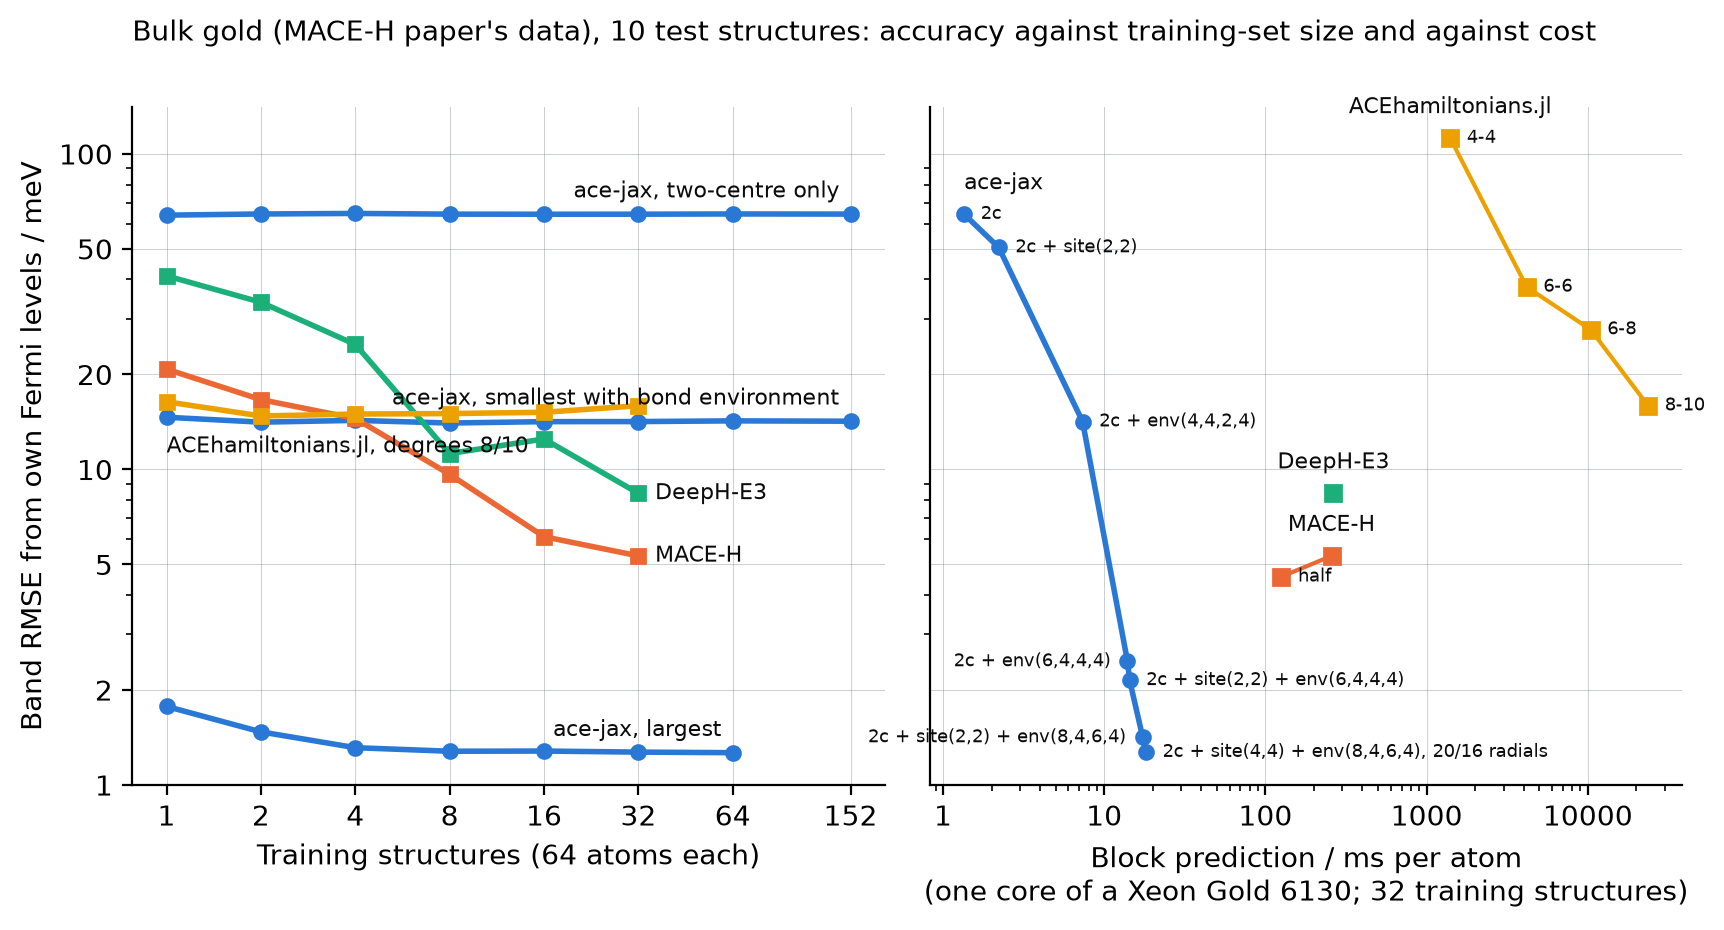
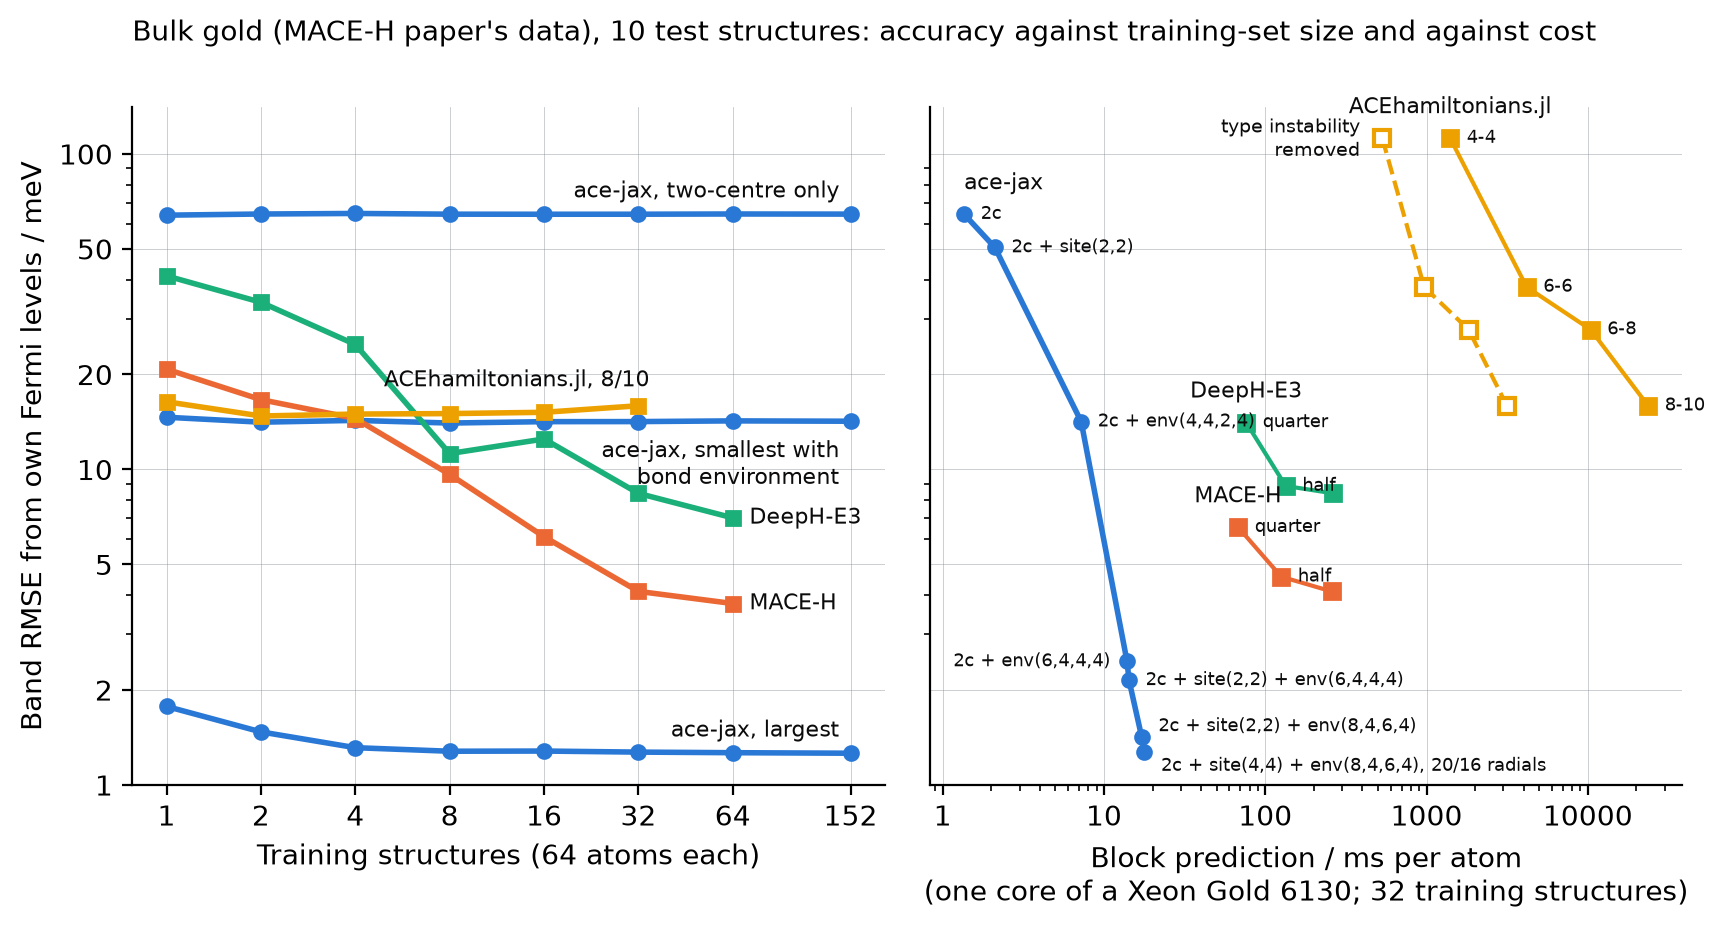
bench(ham): gold Pareto figures with the full 0.7.1 grid, 64-structure networks and both ACEhamiltonians.jl cost ladders

diff --git a/bench/ham/gold_pareto.py b/bench/ham/gold_pareto.py
@@ -4,7 +4,7 @@ data, for the ace-jax grid (`gold_grid.sh`), MACE-H and DeepH-E3 (`maceh_train.p
 ten test structures:
     python bench/ham/gold_pareto.py <ace grid.jsonl> <other codes.jsonl> <timings.json> <figure.png> [metric=aligned_rmse]
 <timings.json>: {"machine": text, "ace": {model tag: ms per atom}, "MACE-H": ms or {network size: ms},
-"DeepH-E3": the same}, of one machine (`model_time.py`, `maceh_time.py`).  Network sizes: "full"
+"DeepH-E3": the same, "<code>, type-stable": {size: ms} (optional: a second cost for the same fits, drawn dashed)}, of one machine (`model_time.py`, `maceh_time.py`).  Network sizes: "full"
 (the authors' gold network; runs `gold_<code>_n<N>`) and the smaller ones of
 `sulis/train_gold_size.sh`, or ACEhamiltonians.jl's basis sizes (`aceh_gold.jl`; runs
 `gold_<code>_n<N>_<size>`), drawn where a scored run exists.  ace-jax's points are named by
@@ -46,7 +46,8 @@ show = {order[0]: "two-centre only", [t for t in order if "env_5" in t][0]: "sma
 for t, label in show.items():                           # ace-jax: one hue, three model sizes named on the lines
     n = sorted(ace[t])
     a.plot(n, [ace[t][i] for i in n], color=ACE, lw=2, marker="o", ms=5)
-    a.annotate(f"ace-jax, {label}", (n[-1], ace[t][n[-1]]), xytext=(-4, 6), textcoords="offset points", ha="right", fontsize=8, color=INK)
+    below = "smallest" in label                           # ACEhamiltonians.jl's line and label lie just above this one
+    a.annotate("ace-jax, smallest with\nbond environment" if below else f"ace-jax, {label}", (n[-1], ace[t][n[-1]]), xytext=(-4, -6 if below else 6), textcoords="offset points", ha="right", va="top" if below else "baseline", fontsize=8, color=INK)
 for code, col in (("MACE-H", MACEH), ("DeepH-E3", DEEPH)):
     n = sorted(oth.get(code, {}))
     a.plot(n, [oth[code][i] for i in n], color=col, lw=2, marker="s", ms=5)
@@ -58,7 +59,7 @@ for (sz, m), v in small.get("ACEhamiltonians", {}).items():
 if ser:
     sz = max(ser, key=lambda k: (len(ser[k]), k)); n = sorted(ser[sz])
     a.plot(n, [ser[sz][i] for i in n], color=ACEH, lw=2, marker="s", ms=5)
-    a.annotate(f"ACEhamiltonians.jl, degrees {sz.replace('-', '/')}", (n[0], min(ser[sz].values())), xytext=(0, -7), textcoords="offset points", va="top", fontsize=8, color=INK)
+    a.annotate(f"ACEhamiltonians.jl, {sz.replace('-', '/')}", (n[-1], ser[sz][n[-1]]), xytext=(4, 7), textcoords="offset points", ha="right", fontsize=8, color=INK)
 a.set_xscale("log", base=2); a.set_yscale("log"); a.set_xlabel("Training structures (64 atoms each)"); a.set_ylabel(NAME.get(metric, metric))
 a.set_xticks([1, 2, 4, 8, 16, 32, 64, 152]); a.set_xticklabels(["1", "2", "4", "8", "16", "32", "64", "152"])
 nb = 32                                                 # cost panel: every code at 32 training structures
@@ -66,8 +67,8 @@ na = nb if all(nb in v for v in ace.values()) else max(next(iter(ace.values())))
 xs = [T["ace"][t] for t in order]
 b.plot(xs, [ace[t][na] for t in order], color=ACE, lw=2, marker="o", ms=5)
 for i, t in enumerate(order):                           # each point's architecture, sides alternating where points crowd
-    left = i >= 3 and i % 2 == 1
-    b.annotate(arch[t], (T["ace"][t], ace[t][na]), xytext=(-6 if left else 6, 0), textcoords="offset points", ha="right" if left else "left",
+    left, dy = i == 3, {len(order) - 2: 4, len(order) - 1: -5}.get(i, 0) if len(order) > 5 else 0
+    b.annotate(arch[t], (T["ace"][t], ace[t][na]), xytext=(-6 if left else 6, dy), textcoords="offset points", ha="right" if left else "left",
                va="center", fontsize=6.5, color=INK)
 b.annotate("ace-jax", (xs[0], ace[order[0]][na]), xytext=(0, 9), textcoords="offset points", fontsize=8, color=INK)
 for code, col in OTHERS:                                # the other codes: every network or basis size scored at nb, joined in cost order
@@ -81,6 +82,11 @@ for code, col in OTHERS:                                # the other codes: every
                 b.annotate(sz, (x, y), xytext=(6, 0), textcoords="offset points", va="center", fontsize=6.5, color=INK)
         top = max(pts, key=lambda q: q[1])
         b.annotate(code + (".jl" if code == "ACEhamiltonians" else ""), top[:2], xytext=(0, 9), textcoords="offset points", ha="center", fontsize=8, color=INK)
+    alt = T.get(code + ", type-stable", {})              # the same fits at the cost measured with a type instability in the code's evaluation removed
+    pts = sorted((alt[sz], v, sz) for (sz, m), v in small.get(code, {}).items() if m == nb and sz in alt)
+    if pts:
+        b.plot([q[0] for q in pts], [q[1] for q in pts], color=col, marker="s", ms=6, mfc="white", mew=1.5, ls="--", lw=1.5)
+        b.annotate("type instability\nremoved", max(pts, key=lambda q: q[1])[:2], xytext=(-8, 0), textcoords="offset points", ha="right", va="center", fontsize=7, color=INK, linespacing=1.1)
 b.set_xscale("log"); b.set_xlabel(f"Block prediction / ms per atom\n({T.get('machine', 'one CPU core')}; {nb} training structures)")
 from matplotlib.ticker import FuncFormatter, NullFormatter
 a.set_yticks([1, 2, 5, 10, 20, 50, 100]); a.yaxis.set_major_formatter(FuncFormatter(lambda v, _: f"{v:g}")); a.yaxis.set_minor_formatter(NullFormatter())

diff --git a/docs/dev/ham-results.md b/docs/dev/ham-results.md
@@ -896,3 +896,24 @@ FHI-aims 261002 on 16 MPI ranks (its own time accounting) against the model rout
 - The model's cost is its eigensolver: 88-96 % of the total. JAX's `eigh` on a CPU takes 0.28 s per k-point at 896 functions where FHI-aims (ELPA, k-points over ranks) takes 0.48 s for all 8, so the speed-up to bands is a lower bound that a LAPACK/ELPA solve would raise (Al: 481 / (0.29 + 0.48) = 620, an estimate, not measured).
 - Large cells: both routes become the eigensolver, and the ratio tends to the number of SCF cycles (30-61 here) times (functions of the DFT / functions of the model)^3 where the model is valence-only (NbFeSb: 6.4).
 - Not like for like: the model returns eigenvalues, the DFT also eigenvectors, density and total energy; GPU prediction is not used.
+
+## Gold: the figure with 0.7.1, 64-structure networks and ACEhamiltonians.jl (2026-11-20)
+
+`figures/ham-gold-pareto.png` redrawn from the grid refitted with 0.7.1 (`gold_grid3`, all 56 points), the networks retrained to their learning-rate floor on Blythe L40s, and ACEhamiltonians.jl @ 9ff1572 (`aceh_gold.jl`, its own assembly and LSQR). Band RMSE from own Fermi levels, ten test structures; block prediction on one core of a Xeon Gold 6130.
+
+| Model | Training structures | ms per atom | Band RMSE / meV |
+|---|---|---|---|
+| ace-jax 2c + site(2,2) + env(6,4,4,4) (default) | 32 | 14.3 | 2.15 |
+| ace-jax 2c + site(4,4) + env(8,4,6,4), 20/16 radials | 32, 64, 152 | 17.8 | 1.27, 1.27, 1.26 |
+| MACE-H, full network | 32, 64 | 258 | 4.11, 3.76 |
+| MACE-H, half, quarter | 32 | 126, 68 | 4.57, 6.56 |
+| DeepH-E3, full network | 32, 64 | 264 | 8.40, 7.02 |
+| DeepH-E3, half, quarter | 32 | 134, 76 | 8.87, 14.09 |
+| ACEhamiltonians.jl, on-site/off-site degrees 4/4, 6/6, 6/8, 8/10 | 32 | 1,400, 4,176, 10,409, 23,655 | 112.2, 37.9, 27.8, 15.9 |
+| the same with the type instability removed | 32 | 532, 967, 1,822, 3,152 | the same (8/10: 15.96) |
+| ACEhamiltonians.jl 8/10 | 1, 2, 4, 8, 16 | | 16.4, 14.8, 15.0, 15.0, 15.2 |
+
+- ace-jax's times are those of the 0.7.0 models to 2 % (the midpoint fix costs nothing); the accuracies are those of the midpoint section.
+- The networks gain little from 32 to 64 structures (MACE-H 4.11 to 3.76 meV); the 5.32 meV of the earlier table was a run stopped by its time limit.
+- **ACEhamiltonians.jl is basis-limited at these degrees**: 8/10 does not improve from 1 to 32 structures. The paper's degrees (10/12 to 14/14) are running.
+- **A type instability in ACE.jl 0.12.22** (`evaluate!(AA, basis::PIBasis, config)`: the one-particle values are inferred as an abstract `Vector`, so each of the products dispatches dynamically) is 2.6 to 7.5 times of its cost. A function barrier removes it (overrides kept outside the repository; dashed line of the figure). On the full training set the 8/10 predictions with and without it differ by at most 2.6 meV in a block (RMS 0.23 on-site, 0.06 off-site: LSQR, not the basis values, which agree to 6e-17), and the band error is the same. With it ACEhamiltonians.jl 8/10 is 180 times ace-jax's largest model in cost, at 12 times its error.
